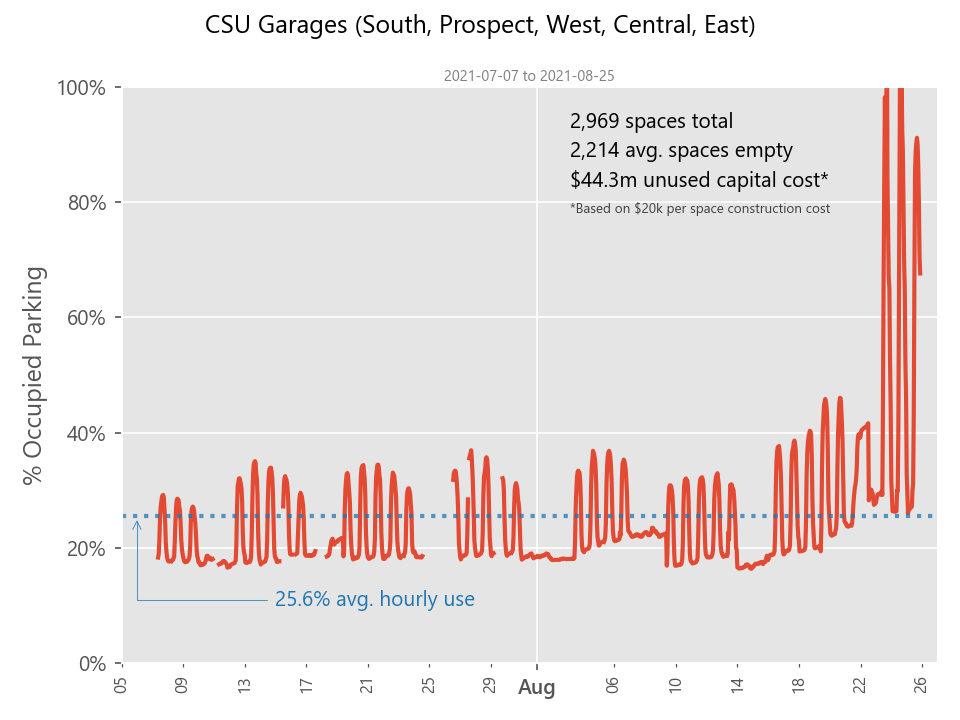
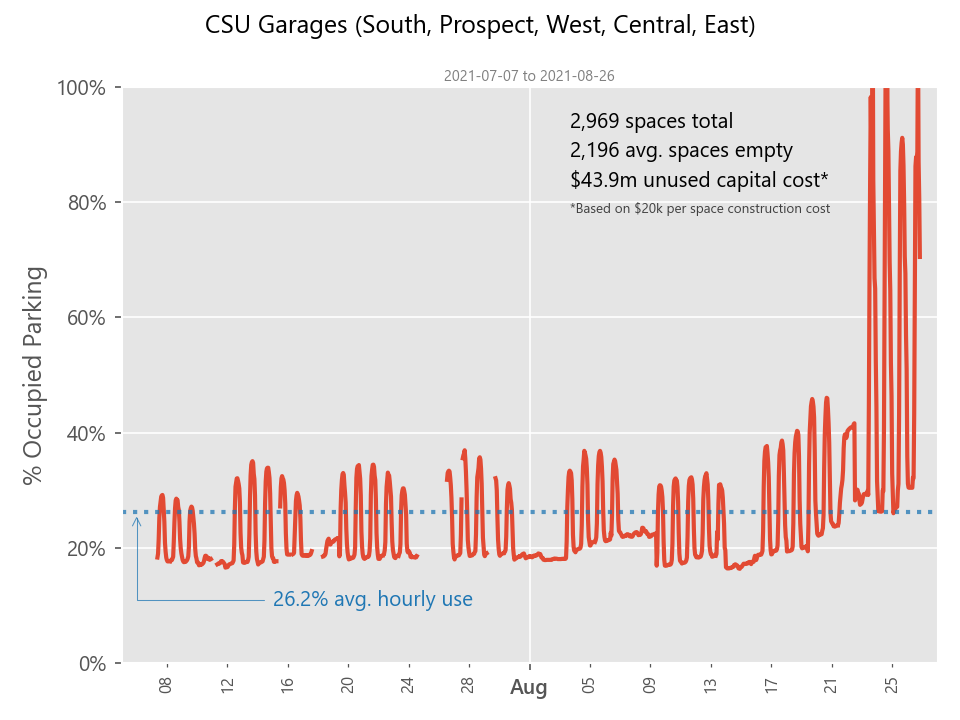
Scrape update 8-26

diff --git a/charts.py b/charts.py
@@ -58,9 +58,9 @@ plt.text(.55, .825, f'{capacity_total:,d}' + ' spaces total' + '\n'
 plt.text(.55, .78, '*Based on $20k per space construction cost', color='.25',
          ha='left', fontsize=6.5, linespacing=1.5, transform=ax.transAxes, )
 
-average_use = hourlymins['percent_use'].mean()
-plt.axhline(average_use, ls=':', lw=2, c='tab:blue', alpha=.75)
-plt.annotate(f'{average_use:.1%} avg. hourly use', xy=(date_min + 1, average_use), xytext=(date_min + 10, .1), c= 'tab:blue',
+average_use_break = hourlymins['percent_use'].mean()
+plt.axhline(average_use_break, ls=':', lw=2, c='tab:blue', alpha=.75)
+plt.annotate(f'{average_use_break:.1%} avg. hourly use', xy=(date_min + 1, average_use_break), xytext=(date_min + 10, .1), c='tab:blue',
              arrowprops={'arrowstyle': '->', 'connectionstyle': "angle,angleA=180,angleB=90", 'color': 'tab:blue',
                          'lw': '.5', 'alpha': 0.75})
 
